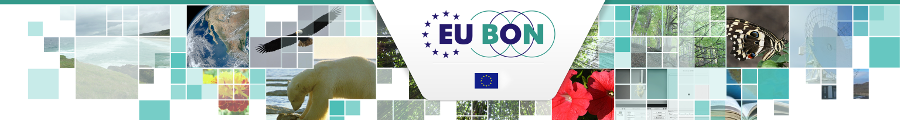
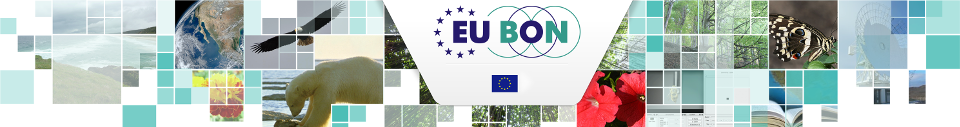
ui fine tuning

diff --git a/src/main/webapp/index.html b/src/main/webapp/index.html
@@ -16,11 +16,18 @@
 </head>
 
 <body class="swagger-section">
-<div id='header'>
-<img src="images/eubon-banner.png"></div>
-<div id="description">The Unified Taxonomic Information Service (UTIS) is the taxonomic backbone for the EU-BON project</div>
-<div id="content">
-  <a href="doc.html">documentation of the RESTful UTIS service api.</a>
+<div id="header">
+  <div id="banner">
+  <img src="images/eubon-banner.png">
+  </div>
+</div>
+<div id="description"><div class="swagger-ui-wrap">The Unified Taxonomic Information Service (UTIS) is the taxonomic backbone for the EU-BON project</div></div>
+<div id="content" class="swagger-ui-wrap">
+<p>
+</p>
+<p>
+  <a href="doc.html">Documentation of the RESTful UTIS service api.</a>
+</p>
 </div>
 </body>
 </html>

diff --git a/src/main/webapp/doc.html b/src/main/webapp/doc.html
@@ -48,7 +48,7 @@
       onFailure: function(data) {
         log("Unable to Load SwaggerUI");
       },
-      docExpansion: "none"
+      docExpansion: "true"
     });
 
     $('#input_apiKey').change(function() {
@@ -65,9 +65,11 @@
 </head>
 
 <body class="swagger-section">
-<div id='header'>
-<img src="images/eubon-banner.png"></div>
-<div id="description">The Unified Taxonomic Information Service (UTIS) is the taxonomic backbone for the EU-BON project</div>
+<div id="header">
+  <div id="banner">
+  <img src="images/eubon-banner.png">
+  </div>
+</div>
 <div id="content">
   <div id="message-bar" class="swagger-ui-wrap">&nbsp;</div>
   <div id="swagger-ui-container" class="swagger-ui-wrap"></div>

diff --git a/src/main/webapp/css/utis.css b/src/main/webapp/css/utis.css
@@ -3,11 +3,14 @@ body.swagger-section #header {
   background-color:#34998a;
 }
 
-#description {
-  padding:10px 50px;
-  background-color:#99dbd6;
+#header #banner{
+  margin-left:auto;
+  margin-right:auto;
+  max-width: 960px;
 }
 
-#content {
-  padding:10px 50px;
+#description {
+  padding-top:10px;
+  padding-bottom:10px;
+  background-color:#99dbd6;
 }
